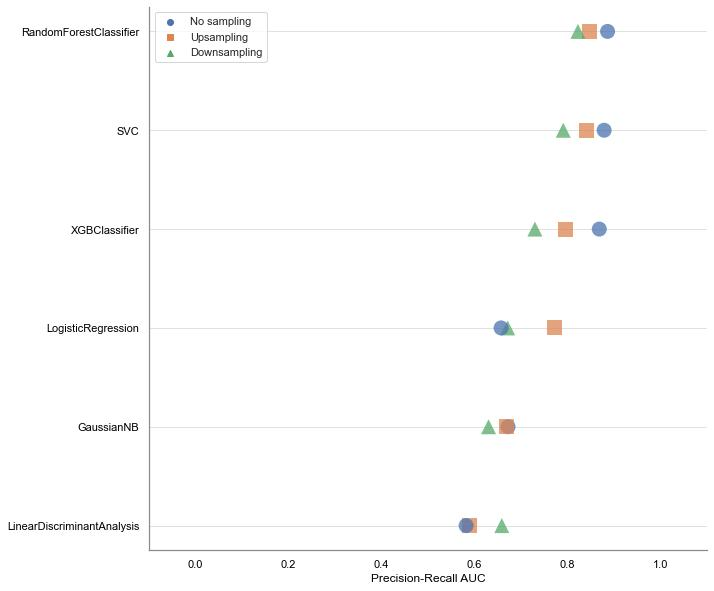
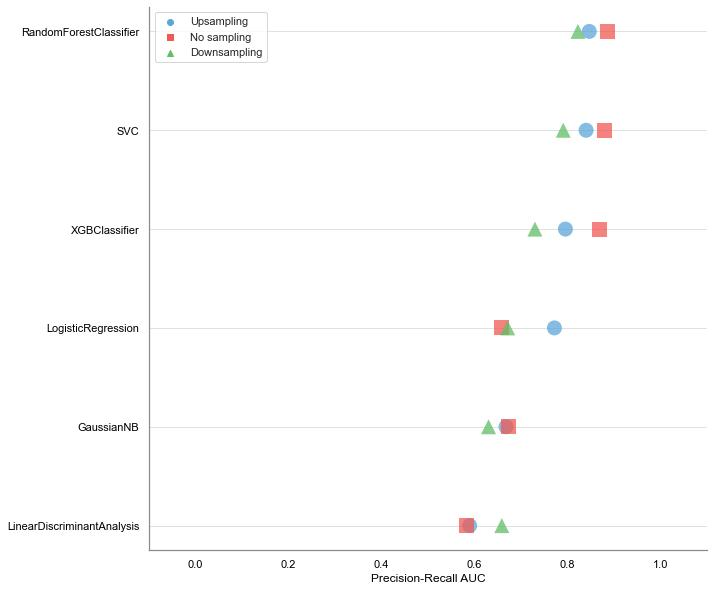
fixed legend

diff --git a/code/model_comparison.py b/code/model_comparison.py
@@ -26,11 +26,11 @@ df = pd.concat([df_no_sampling, df_upsampling, df_downsampling],
 for idx, val in enumerate(df.columns[2:]):
     sorted_index_descent = df.groupby(['Model']).max().sort_values(by= val,ascending=False).index
     
-    df = df.sort_values(by=val, ascending=False)
+    df = df.sort_values(by=['Sampling', val], ascending=False)
     
     plt.figure(figsize=(10, 10))
     # ax = sns.stripplot(y = df['Model'], x = df[val], hue = df['Sampling'], jitter=0.055, s=15, order = sorted_index_descent, alpha=0.75)
-    ax = sns.scatterplot(data = df, y = 'Model', x = val, hue = 'Sampling', style='Sampling', s=225, linewidth=0, alpha=0.75, markers=('o',',','^'))
+    ax = sns.scatterplot(data = df, y = 'Model', x = val, hue = 'Sampling', style='Sampling', s=225, linewidth=0, alpha=0.75, markers=('o','s','^'), palette=[medium[1],medium[8],medium[3]])
     ax.set_ylabel('')
     ax.set_xlabel(val)
     ax.set_xlim([-.1,1.1])
